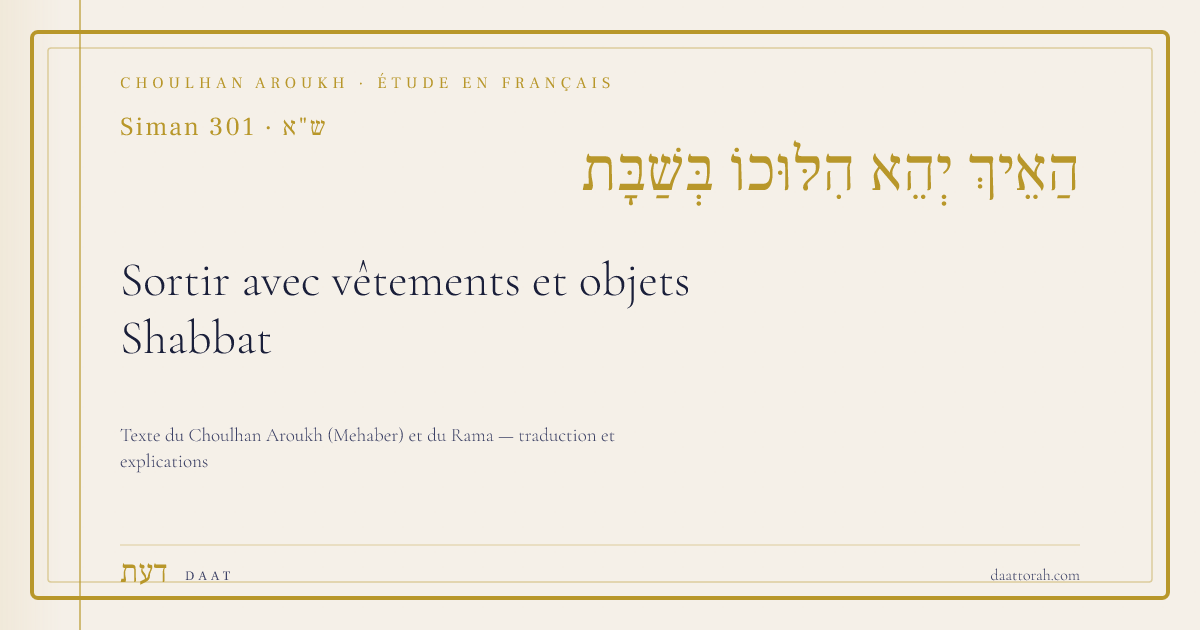
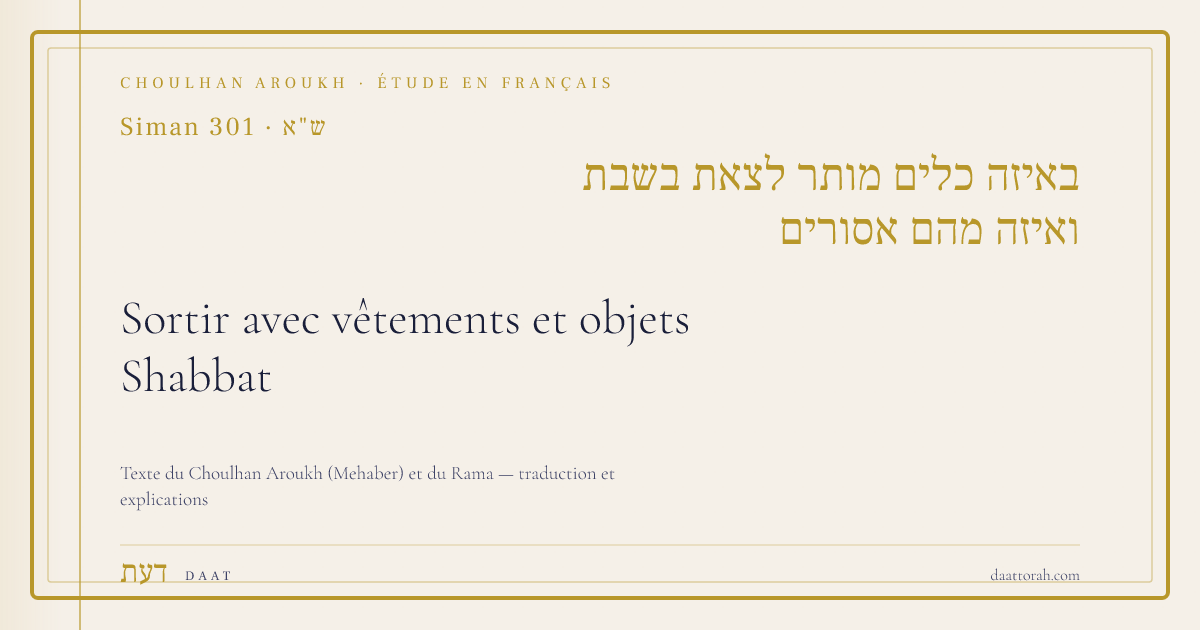
Image OG Base du siman 301 : titre Mehaber, sans débordement
siman-301-base.png reprend l'en-tête du Mehaber
« באיזה כלים מותר לצאת בשבת ואיזה מהם אסורים » (deux lignes,
taille adaptée). Les autres images 301 gardent הַאֵיךְ.

diff --git a/scripts/generate-og-image-png.js b/scripts/generate-og-image-png.js
@@ -83,24 +83,14 @@ function wrap(text, maxLen) {
 
 // -- Render SVG for a level --
 function renderOG({ titleFr, titleHe, numberLabel, subtitle }) {
-  // Adapter la taille du titre hébreu selon sa longueur
+  // Adapter la taille du titre hébreu selon sa longueur (titres longs : plus petit, pas de débordement)
   const heLength = (titleHe || '').length;
-  const heFontSize = heLength > 50 ? 48 : heLength > 35 ? 54 : heLength > 25 ? 62 : 70;
+  const heFontSize = heLength > 50 ? 42 : heLength > 40 ? 46 : heLength > 35 ? 52 : heLength > 25 ? 62 : 70;
   
-  // Découper le titre hébreu intelligemment
-  const heWords = (titleHe || '').split(/\s+/);
+  // Découper le titre hébreu par mots (coupure naturelle, sans débordement)
   let heLines = [];
-  if (heWords.length > 0) {
-    // Si le titre est très long, on le découpe en lignes de longueur équilibrée
-    if (titleHe.length > 35) {
-      const mid = Math.ceil(heWords.length / 2);
-      heLines = [
-        heWords.slice(0, mid).join(' '),
-        heWords.slice(mid).join(' ')
-      ];
-    } else {
-      heLines = [titleHe];
-    }
+  if (titleHe) {
+    heLines = titleHe.length > 28 ? wrap(titleHe, 28).slice(0, 3) : [titleHe];
   }
   
   // Position Y du titre hébreu (ajusté pour ne pas chevaucher)
@@ -223,7 +213,15 @@ async function generateForSiman(filepath) {
   
   // Vérifier si c'est un siman-passerelle (304, 322)
   const isBridge = [304, 322].includes(simanNum);
-  
+
+  // Titre Mehaber (en-tête du siman) pour la seule image Base du 301 ;
+  // les autres niveaux gardent titleHe du JSON (הַאֵיךְ …).
+  const TITLE_HE_BASE = {
+    301: 'באיזה כלים מותר לצאת בשבת ואיזה מהם אסורים',
+  };
+
+  const onlySuffix = flag('--suffix'); // ex. --suffix base
+
   const levels = [
     {
       suffix: 'base',
@@ -253,9 +251,10 @@ async function generateForSiman(filepath) {
   
   let totalSize = 0;
   for (const level of levels) {
+    if (onlySuffix && level.suffix !== onlySuffix) continue;
     const svg = renderOG({
       titleFr,
-      titleHe,
+      titleHe: (level.suffix === 'base' && TITLE_HE_BASE[simanNum]) || titleHe,
       numberLabel,
       subtitle: level.subtitle,
     });
